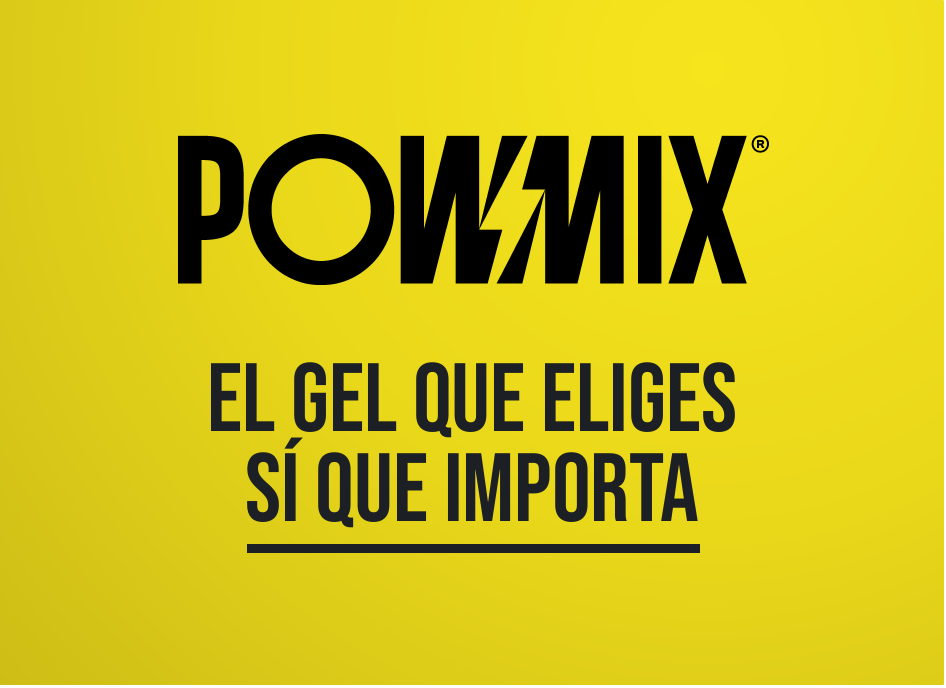
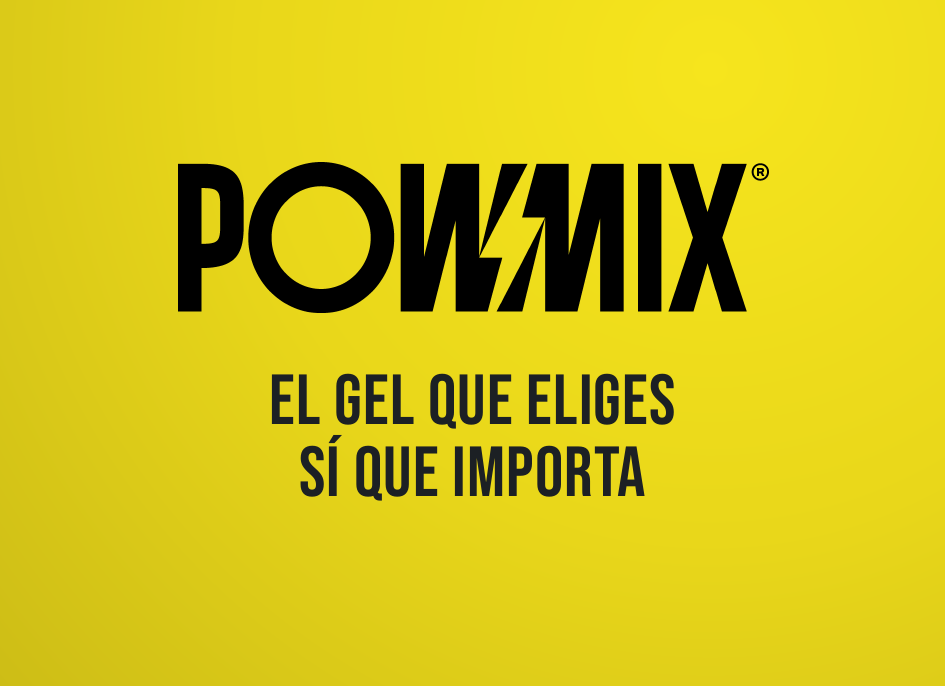
Refine A8 card layout
Claude-Session: https://claude.ai/code/session_01ESgrYfWtbUyydYC5uboLBi

diff --git a/a8/a8.html b/a8/a8.html
@@ -3,33 +3,31 @@
 @page{size:80mm 58mm;margin:0}
 *{margin:0;box-sizing:border-box}
 body{font-family:Bebas,sans-serif;color:#1c2024}
-.p{width:80mm;height:58mm;position:relative;overflow:hidden;page-break-after:always}
+.p{width:80.2mm;height:58.2mm;position:relative;overflow:hidden;page-break-after:always}
 .y{background:radial-gradient(circle at 75% 10%,#f6e51d 0,#e9d71a 50%,#cdbd16 100%)}
 .front{display:flex;flex-direction:column;align-items:center;justify-content:center;text-align:center;padding:0 7mm}
-.front img{width:50mm}
-.front .t{margin-top:6mm;font-size:8.2mm;line-height:.95}
-.front .t span{display:inline-block;position:relative;padding-bottom:1mm}
-.front .t span::after{content:"";position:absolute;left:0;right:0;bottom:0;height:.7mm;background:#1c2024}
-.top{position:absolute;left:0;right:0;top:0;height:35mm;padding:4mm 7mm 0;display:flex;justify-content:space-between}
+.front img{width:50mm;margin-top:-1mm}
+.front .t{margin-top:5mm;font-size:6mm;line-height:1;letter-spacing:.1mm}
+.top{position:absolute;left:0;right:0;top:0;height:35mm;padding:4.5mm 7mm 0;display:flex;justify-content:space-between;align-items:flex-start}
 .l{display:flex;flex-direction:column}
 .kick{font-size:3.3mm;letter-spacing:.1mm;line-height:1}
-.reg{font-size:4.8mm;margin-top:.8mm;line-height:1}
+.reg{font-size:4.8mm;margin-top:0;line-height:1}
 .big{display:flex;align-items:flex-end;gap:1.2mm;margin-top:1mm}
 .big b{font-weight:400;font-size:13mm;line-height:.8}
 .big span{font-size:3.2mm;line-height:1;padding-bottom:1mm}
 .code{display:flex;align-items:center;gap:3mm;background:#1c2024;color:#f4e21c;padding:.9mm 2.6mm .5mm;margin-top:1.4mm;align-self:flex-start}
 .code small{font-size:3mm}.code b{font-weight:400;font-size:5mm;letter-spacing:.2mm}
 .r{display:flex;flex-direction:column;align-items:center;gap:1.2mm;padding-top:.5mm}
-.qr{width:21mm;height:21mm;background:#fff;padding:1.4mm;border-radius:1.5mm}.qr img{width:100%;height:100%;display:block}
+.qr{width:21mm;height:21mm;background:#fff;padding:1.4mm;border-radius:0}.qr img{width:100%;height:100%;display:block}
 .r small{font-size:3.1mm;letter-spacing:0}
 .bot{position:absolute;left:0;right:0;bottom:-1mm;height:24.5mm;background:#1c2024;color:#f4e21c;padding:2.4mm 7mm 0}
-.bot h3{font-weight:400;font-size:3.6mm;line-height:1}
+.bot h3{font-weight:400;font-size:2.9mm;line-height:1}
 .bot p{font-family:Helvetica,Arial,sans-serif;color:#e9e9e9;font-size:2mm;line-height:1.3;margin-top:.9mm}
 </style></head><body>
-<div class="p y front"><img src="logo.png"><div class="t">EL GEL QUE ELIGES<br><span>SÍ QUE IMPORTA</span></div></div>
+<div class="p y front"><img src="logo.png"><div class="t">EL GEL QUE ELIGES<br>SÍ QUE IMPORTA</div></div>
 <div class="p y">
  <div class="top">
-  <div class="l"><div class="kick">EL GEL QUE ELIGES SÍ QUE IMPORTA</div><div class="reg">AQUÍ TIENES TU REGALO</div><div class="big"><b>-15%</b><span>ADICIONAL</span></div><div class="code"><small>CÓDIGO</small><b>REGALOBF-15</b></div></div>
+  <div class="l"><div class="kick">EL GEL QUE ELIGES SÍ QUE IMPORTA</div><div class="reg">AQUÍ TIENES TU REGALO</div><div class="big"><b>-15%</b><span>ADICIONAL</span></div><div class="code"><small>CÓDIGO:</small><b>REGALOBF-15</b></div></div>
   <div class="r"><div class="qr"><img src="qr.png"></div><small>ESCANEA EL QR</small></div>
  </div>
  <div class="bot"><h3>CONDICIONES DEL REGALO</h3><p>Válido del 1/12/2026 al 28/02/2027. Sin compra mínima. Un uso por cliente. Válido también en productos rebajados o con descuento. No acumulable con otros códigos. Solo compras únicas; no válido para suscripciones. Exclusivo para compradores de la campaña Black Friday. No se aplica a los gastos de envío.</p></div>
